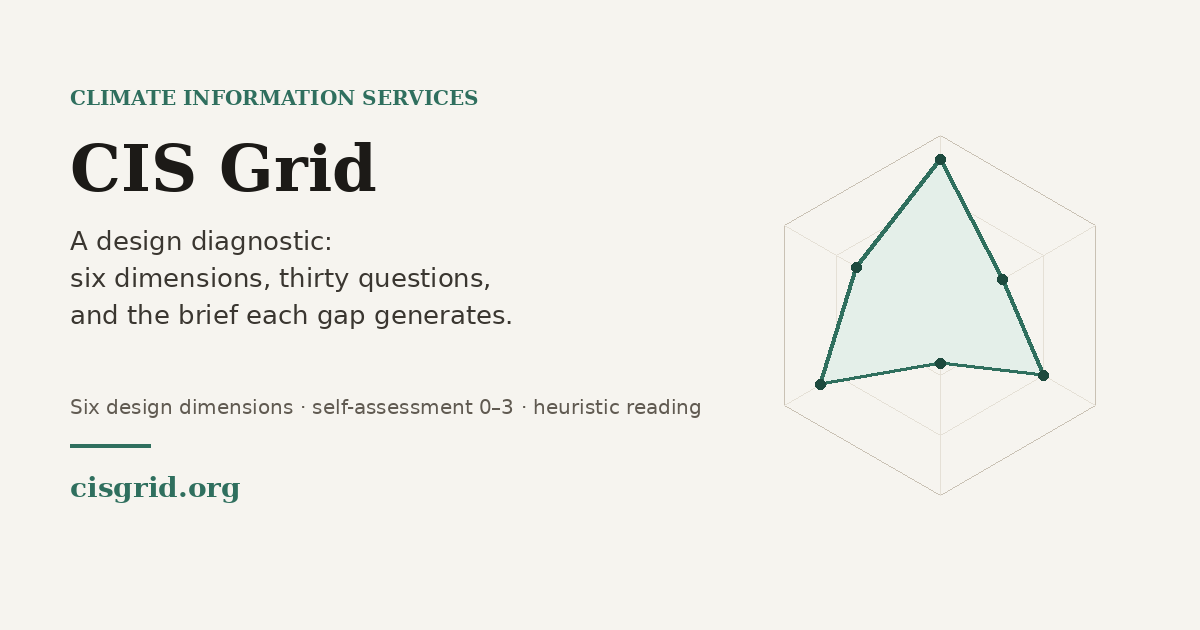
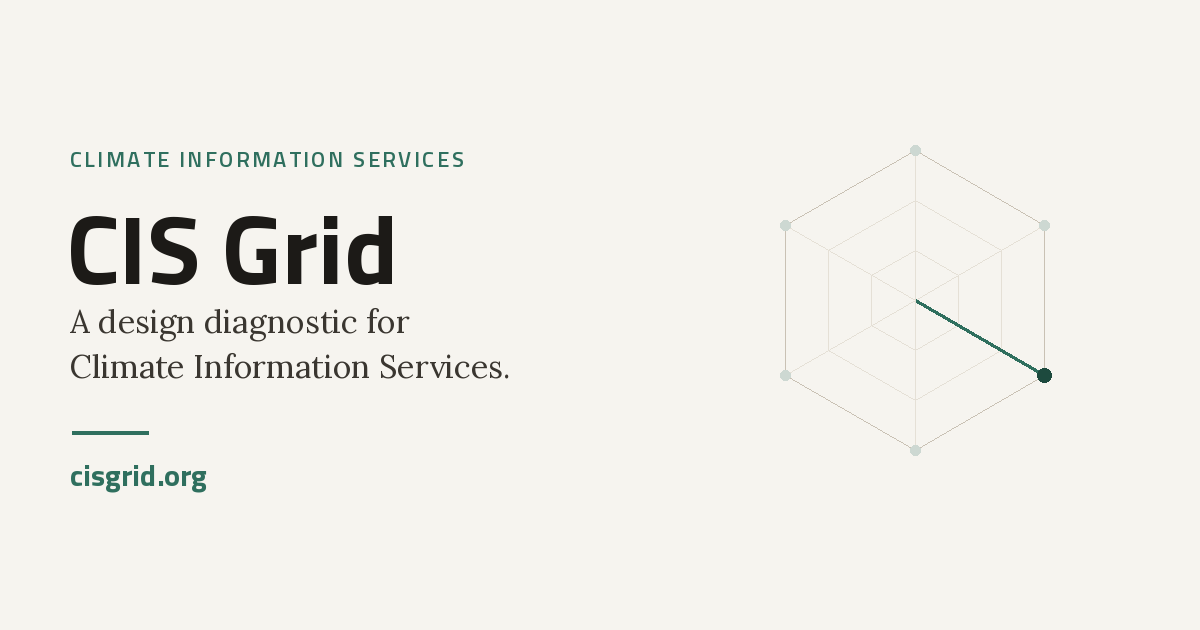
Updated version

diff --git a/index.html b/index.html
@@ -123,6 +123,80 @@ footer.site p{margin:.4rem 0}
 .badge:hover{background:var(--accent-soft);border-color:var(--accent)}
 .badge svg{width:14px;height:14px}
 
+/* ---------- Home: interactive hero + sections ---------- */
+.hero-grid{display:grid;grid-template-columns:1.05fr .95fr;gap:36px;align-items:center}
+@media(max-width:820px){.hero-grid{grid-template-columns:1fr;gap:6px}}
+.hero-copy h1{font-family:var(--serif);font-weight:700;font-size:2.4rem;line-height:1.12;margin:.2rem 0 1rem}
+@media(max-width:820px){.hero-copy h1{font-size:2.05rem}}
+.hero-viz{text-align:center}
+.hexviz{width:100%;max-width:410px;height:auto;overflow:visible;animation:hexpop .7s cubic-bezier(.2,.8,.2,1) both}
+@keyframes hexpop{from{opacity:0;transform:scale(.9) rotate(-7deg)}to{opacity:1;transform:none}}
+.hexviz .ring{fill:none;stroke:var(--line);stroke-width:1}
+.hexviz .ring.r3{stroke:#c9c1b4}
+.hexviz .spoke{stroke:var(--line);stroke-width:1;transition:stroke .2s,stroke-width .2s}
+.hexviz .dot{fill:#cdd8d2;transition:fill .2s,r .2s}
+.hexviz .lbl{font-family:var(--sans);font-weight:600;font-size:12.5px;fill:var(--ink);transition:fill .2s}
+.hexviz .hit{fill:transparent;cursor:pointer}
+.hexviz .axis{cursor:pointer}
+.hexviz .axis.on .spoke{stroke:var(--accent);stroke-width:2.6}
+.hexviz .axis.on .dot{fill:var(--accent-ink);r:5.5}
+.hexviz .axis.on .lbl{fill:var(--accent-ink);font-weight:700}
+.hexviz .axis:focus{outline:none}
+.hexviz .axis:focus .lbl{text-decoration:underline}
+.hexviz .draw{stroke-dasharray:1;stroke-dashoffset:1;animation:hexdraw .9s ease forwards}
+@keyframes hexdraw{to{stroke-dashoffset:0}}
+.hexviz .fadein{opacity:0;animation:hexfade .5s ease forwards}
+@keyframes hexfade{to{opacity:1}}
+.hexcap{color:var(--muted);font-size:.95rem;margin:.7rem auto 0;max-width:40ch;min-height:4.6em;line-height:1.4}
+.hexcap b{color:var(--accent-ink)}
+.statstrip{display:flex;flex-wrap:wrap;gap:14px 30px;margin-top:28px;padding-top:20px;border-top:1px solid var(--line)}
+.stat .v{font-family:var(--serif);font-weight:700;font-size:1.55rem;color:var(--accent-ink);line-height:1}
+.stat .k{display:block;color:var(--muted);font-size:.85rem;margin-top:.25rem}
+.distance blockquote{font-family:var(--body);font-style:italic;font-size:1.15rem;line-height:1.55;color:#3a3630;
+  margin:.6rem 0 1.7rem;max-width:56ch;padding-left:16px;border-left:3px solid #cfe3da}
+.distance-path{display:flex;align-items:center;gap:18px}
+@media(max-width:700px){.distance-path{flex-direction:column;align-items:flex-start}}
+.dp-end{flex:0 0 auto;text-align:center;width:118px}
+.dp-end .ic{width:48px;height:48px;border-radius:50%;background:var(--accent-soft);color:var(--accent-ink);display:flex;align-items:center;justify-content:center;margin:0 auto .45rem}
+.dp-end .ic svg{width:22px;height:22px}
+.dp-end .t{font-weight:600;font-size:.9rem;line-height:1.25}
+.dp-track{flex:1;display:grid;grid-auto-flow:column;grid-template-rows:auto auto;gap:10px 14px;justify-content:center;align-content:center}
+@media(max-width:700px){.dp-track{display:flex;flex-wrap:wrap;justify-content:flex-start;border-left:2px solid var(--line);margin-left:22px;padding:4px 0 4px 14px}}
+.dp-stop{font-size:.82rem;color:var(--accent-ink);background:var(--accent-soft);border:1px solid #cfe3da;border-radius:999px;padding:.3rem .7rem;text-align:center;
+  opacity:0;transform:translateY(8px);transition:opacity .5s ease,transform .5s ease}
+.dp-track.in .dp-stop{opacity:1;transform:none}
+.sample .toggle-row{display:inline-flex;border:1px solid var(--line);border-radius:999px;padding:3px;background:#fff;margin:0 0 18px}
+.sample .toggle-row button{border:none;background:transparent;border-radius:999px;padding:.42rem .95rem;font-family:var(--sans);font-weight:600;font-size:.92rem;color:var(--muted);cursor:pointer}
+.sample .toggle-row button.on{background:var(--accent);color:#fff}
+.sample-grid{display:grid;grid-template-columns:300px 1fr;gap:26px;align-items:center;background:var(--panel);border:1px solid var(--line);border-radius:var(--radius);padding:24px;box-shadow:var(--shadow)}
+@media(max-width:700px){.sample-grid{grid-template-columns:1fr}}
+#sampleRadar{width:100%;max-width:290px;height:auto;display:block;margin:0 auto}
+.sample-read .att{font-size:1rem;color:#3a3630;line-height:1.6}
+.sample-read .att b{color:var(--accent-ink)}
+.sample-note{color:var(--muted);font-size:.85rem;margin-top:26px;padding-top:16px;border-top:1px solid var(--line)}
+/* how it works: interactive stepper */
+.stepper{position:relative;margin-top:10px}
+.steptrack{position:absolute;top:19px;left:16.6%;right:16.6%;height:2px;background:var(--line);z-index:0}
+.stepfill{height:100%;width:0;background:var(--accent);transition:width .35s ease}
+.stepnodes{display:grid;grid-template-columns:repeat(3,1fr);gap:12px;position:relative;z-index:1}
+.stepnode{display:flex;flex-direction:column;align-items:center;gap:.55rem;background:none;border:none;cursor:pointer;font-family:inherit;padding:0}
+.stepnode .n{width:40px;height:40px;border-radius:50%;background:#fff;border:2px solid var(--line);color:var(--muted);
+  display:flex;align-items:center;justify-content:center;font-weight:700;font-family:var(--sans);transition:.2s}
+.stepnode .lab{font-family:var(--sans);font-weight:600;font-size:.95rem;color:var(--muted);text-align:center;transition:.2s}
+.stepnode.done .n{border-color:var(--accent);color:var(--accent-ink)}
+.stepnode.active .n{background:var(--accent);border-color:var(--accent);color:#fff}
+.stepnode.done .lab,.stepnode.active .lab{color:var(--ink)}
+.stepbody{background:var(--panel);border:1px solid var(--line);border-radius:12px;padding:18px 20px;margin-top:22px;box-shadow:var(--shadow)}
+.stepbody h4{margin:0 0 .35rem;font-size:1.05rem}
+.stepbody p{margin:0;color:#3a3630;line-height:1.6}
+.reveal{opacity:0;transform:translateY(16px);transition:opacity .6s ease,transform .6s ease}
+.reveal.in{opacity:1;transform:none}
+@media(prefers-reduced-motion:reduce){
+  .reveal,.dp-stop{opacity:1!important;transform:none!important;transition:none}
+  .hexviz,.hexviz .draw,.hexviz .fadein{animation:none}
+  .hexviz .draw{stroke-dashoffset:0}.hexviz .fadein{opacity:1}
+}
+
 /* ---------- Interview overlay ---------- */
 .overlay{position:fixed;inset:0;background:var(--bg);z-index:50;display:none;flex-direction:column}
 .overlay.open{display:flex}
@@ -253,21 +327,53 @@ footer.site p{margin:.4rem 0}
           <button class="btn ghost small" id="discardBtn">Start over</button>
         </span>
       </div>
-      <p class="eyebrow">Climate Information Services · design diagnostic</p>
-      <h1>Read your climate service as a designed service, dimension by dimension.</h1>
-      <p class="lead">A guided interview for teams scoping or reviewing a Climate Information Service. It walks you through six design dimensions, records a self-assessment from 0 to 3 on each question, and returns a heuristic reading: where the service is under-designed, and the design brief each gap generates.</p>
-      <div class="cta-row">
-        <button class="btn" id="startBtn">Start the interview</button>
-        <a class="btn ghost" href="#how">See how it works</a>
+      <div class="hero-grid">
+        <div class="hero-copy">
+          <p class="eyebrow">Climate Information Services · design diagnostic</p>
+          <h1>Read your climate service as a designed service.</h1>
+          <p class="lead">A guided interview across <b>six design dimensions</b>. Rate your service from 0 to 3 on each question and get a heuristic reading: where it is <b>under-designed</b>, and the <b>design brief</b> each gap generates.</p>
+          <div class="cta-row">
+            <button class="btn" id="startBtn">Start the interview</button>
+            <a class="btn ghost" href="#how">See how it works</a>
+          </div>
+          <p class="note" style="margin-top:1rem">No account needed, your answers stay in your browser.</p>
+        </div>
+        <div class="hero-viz">
+          <svg class="hexviz" id="hexviz" viewBox="0 0 440 400" role="img" aria-label="The six design dimensions on a hexagon. Focus a dimension to read what it asks."></svg>
+          <p class="hexcap" id="hexcap">Hover or tap a dimension to see what it asks.</p>
+        </div>
       </div>
-      <p class="note" style="margin-top:1rem">About 15–20 minutes · English · no account needed · your answers stay in your browser.</p>
+      <div class="statstrip reveal">
+        <div class="stat"><span class="v" data-count="6">6</span><span class="k">design dimensions</span></div>
+        <div class="stat"><span class="v" data-count="30">30</span><span class="k">diagnostic questions</span></div>
+        <div class="stat"><span class="v">~20′</span><span class="k">to complete</span></div>
+      </div>
+    </div>
+  </section>
+
+  <section class="distance" style="background:var(--panel);border-top:1px solid var(--line);border-bottom:1px solid var(--line)">
+    <div class="wrap">
+      <h2 class="section-title reveal">From forecast to decision</h2>
+      <blockquote class="reveal">“The distance between a forecast and a decision is not an information distance. It is a design distance.”</blockquote>
+      <div class="distance-path reveal">
+        <div class="dp-end">
+          <div class="ic"><svg viewBox="0 0 24 24" fill="none" stroke="currentColor" stroke-width="1.8" stroke-linecap="round" stroke-linejoin="round" aria-hidden="true"><path d="M17 18a4 4 0 0 0 0-8 5.5 5.5 0 0 0-10.7-1.3A3.5 3.5 0 0 0 6 18z"/><path d="M8 20l-1 2M12 20l-1 2M16 20l-1 2"/></svg></div>
+          <div class="t">A forecast is issued</div>
+        </div>
+        <div class="dp-track" id="dpTrack"></div>
+        <div class="dp-end">
+          <div class="ic"><svg viewBox="0 0 24 24" fill="none" stroke="currentColor" stroke-width="1.8" stroke-linecap="round" stroke-linejoin="round" aria-hidden="true"><path d="M20 6L9 17l-5-5"/></svg></div>
+          <div class="t">A decision is made</div>
+        </div>
+      </div>
+      <p class="section-sub reveal" style="margin-top:1.4rem">Between the two lies design work: the touchpoints it travels through, its timing, the back-stage choreography, the behavioural levers, the depth of co-production and whose knowledge counts. The grid asks, dimension by dimension, what has not been designed yet.</p>
     </div>
   </section>
 
   <section id="about">
     <div class="wrap">
       <h2 class="section-title">The research behind it</h2>
-      <p class="section-sub">The instrument comes from a study that read two operational Climate Information Services in Northern Ghana as designed services, then built a six-dimension diagnostic grid whose unanswered questions become design briefs. The distance between a forecast being available and a forecast being used is treated as a design distance, not an information one.</p>
+      <p class="section-sub">The instrument comes from a study that read two operational Climate Information Services in Northern Ghana as designed services, then built a six-dimension diagnostic grid whose unanswered questions become design briefs.</p>
       <div class="cards">
         <div class="card"><h3>A formative instrument</h3><p>The grid is used before deployment. A scoping team works through the questions, and every question it cannot answer marks a design decision still to be made.</p></div>
         <div class="card"><h3>An attention map, not a ranking</h3><p>The radar shows which dimensions are under-designed within one service, so scarce attention goes where it is most needed. It does not rank services against each other.</p></div>
@@ -280,12 +386,12 @@ footer.site p{margin:.4rem 0}
   <section id="how" style="background:var(--panel);border-top:1px solid var(--line);border-bottom:1px solid var(--line)">
     <div class="wrap">
       <h2 class="section-title">How it works</h2>
-      <p class="section-sub">Three stages, one sitting. You can speak your answers or type them, and you can leave and resume later.</p>
-      <div class="steps">
-        <div class="step"><div class="n">1</div><h3>Guided interview</h3><p class="note">Six dimensions. Each opens with a short explanation, then five questions with a field example. You rate each from 0 to 3.</p></div>
-        <div class="step"><div class="n">2</div><h3>Heuristic reading</h3><p class="note">Your scores are mapped onto a hexagonal radar and turned into a reading of strengths, weaknesses and the brief that closes each gap.</p></div>
-        <div class="step"><div class="n">3</div><h3>Downloadable report</h3><p class="note">Take the reading with you as a PDF. Your written notes never leave your device.</p></div>
+      <p class="section-sub">Three stages, one sitting. Select a stage to see what it involves.</p>
+      <div class="stepper">
+        <div class="steptrack"><div class="stepfill" id="stepFill"></div></div>
+        <div class="stepnodes" id="stepNodes"></div>
       </div>
+      <div class="stepbody" id="stepBody"></div>
     </div>
   </section>
 
@@ -294,6 +400,24 @@ footer.site p{margin:.4rem 0}
       <h2 class="section-title">The six dimensions</h2>
       <p class="section-sub">A synthesis of vocabularies from service design, behavioural science and co-production research, combined into a single reading protocol for Climate Information Services.</p>
       <div class="dims" id="dimList"></div>
+    </div>
+  </section>
+
+  <section id="sample" class="sample" style="background:var(--panel);border-top:1px solid var(--line)">
+    <div class="wrap">
+      <h2 class="section-title">See an example reading</h2>
+      <p class="section-sub">Two illustrative profiles, to show what a finished reading looks like before you run your own.</p>
+      <div class="toggle-row" id="sampleToggle" role="tablist" aria-label="Example service profiles">
+        <button type="button" data-p="weak" class="on" role="tab" aria-selected="true">An early-stage service</button>
+        <button type="button" data-p="strong" role="tab" aria-selected="false">A mature service</button>
+      </div>
+      <div class="sample-grid">
+        <canvas id="sampleRadar" width="640" height="640" role="img" aria-label="Example radar of the six dimensions"></canvas>
+        <div class="sample-read">
+          <p class="att" id="sampleAtt"></p>
+          <p class="sample-note">Ready to read your own service? <a href="#" id="sampleStart">Start the interview</a>.</p>
+        </div>
+      </div>
     </div>
   </section>
 
@@ -612,6 +736,79 @@ window.addEventListener('pagehide', ()=>{
   const saved = loadLocal();
   if(saved) document.getElementById('resumeBar').classList.remove('hidden');
 })();
+
+/* ---------- Home: interactive hero hexagon, method path, reveals, sample ---------- */
+function initHome(){
+  const svg=document.getElementById('hexviz'), cap=document.getElementById('hexcap');
+  if(svg){
+    const cx=220, cy=190, R=118, N=6, start=-Math.PI/2;
+    const ang=k=>start+k*2*Math.PI/N, pt=(k,r)=>[cx+r*Math.cos(ang(k)), cy+r*Math.sin(ang(k))];
+    const poly=r=>Array.from({length:N},(_,k)=>pt(k,r).map(n=>n.toFixed(1)).join(',')).join(' ');
+    let s='';
+    [1,2,3].forEach((ring,idx)=>{ s+=`<polygon class="ring${ring===3?' r3':''} draw" pathLength="1" points="${poly(R*ring/3)}" style="animation-delay:${(0.15+idx*0.12).toFixed(2)}s"/>`; });
+    DIMENSIONS.forEach((d,k)=>{
+      const [vx,vy]=pt(k,R), [lx,ly]=pt(k,R+30), c=Math.cos(ang(k));
+      const anchor=Math.abs(c)<0.3?'middle':(c>0?'start':'end'), words=d.axis.split(' ');
+      const label = words.length>1
+        ? `<text class="lbl" x="${lx.toFixed(1)}" y="${(ly-6).toFixed(1)}" text-anchor="${anchor}">${words[0]}</text><text class="lbl" x="${lx.toFixed(1)}" y="${(ly+8).toFixed(1)}" text-anchor="${anchor}">${words.slice(1).join(' ')}</text>`
+        : `<text class="lbl" x="${lx.toFixed(1)}" y="${(ly+3).toFixed(1)}" text-anchor="${anchor}">${d.axis}</text>`;
+      s+=`<g class="axis" data-i="${k}" tabindex="0" role="button" aria-label="${d.title}. ${d.keyQ}">
+        <line class="spoke draw" pathLength="1" x1="${cx}" y1="${cy}" x2="${vx.toFixed(1)}" y2="${vy.toFixed(1)}" style="animation-delay:${(0.5+k*0.06).toFixed(2)}s"/>
+        <circle class="dot fadein" cx="${vx.toFixed(1)}" cy="${vy.toFixed(1)}" r="4" style="animation-delay:${(0.7+k*0.06).toFixed(2)}s"/>
+        <circle class="hit" cx="${lx.toFixed(1)}" cy="${ly.toFixed(1)}" r="34"/>
+        <g class="fadein" style="animation-delay:${(0.8+k*0.06).toFixed(2)}s">${label}</g>
+      </g>`;
+    });
+    svg.innerHTML=s;
+    const axes=svg.querySelectorAll('.axis');
+    const setActive=i=>{ axes.forEach(a=>a.classList.toggle('on', Number(a.dataset.i)===i));
+      cap.innerHTML = i>=0 ? '<b>'+DIMENSIONS[i].title+'.</b> '+DIMENSIONS[i].keyQ : 'Hover or tap a dimension to see what it asks.'; };
+    axes.forEach(a=>{ const i=Number(a.dataset.i);
+      a.addEventListener('mouseenter',()=>setActive(i));
+      a.addEventListener('focus',()=>setActive(i));
+      a.addEventListener('click',()=>setActive(i)); });
+    svg.addEventListener('mouseleave',()=>setActive(-1));
+  }
+
+  const track=document.getElementById('dpTrack');
+  if(track) track.innerHTML=DIMENSIONS.map((d,i)=>`<span class="dp-stop" style="transition-delay:${(i*0.08).toFixed(2)}s">${d.title}</span>`).join('');
+
+  const STEPS=[
+    {t:'Guided interview', d:'Six dimensions. Each opens with a short explanation, then five questions with a field example. You rate each from 0 to 3, by voice or by typing.'},
+    {t:'Heuristic reading', d:'Your scores are mapped onto a hexagonal radar and turned into a reading of strengths, weaknesses and the design brief that closes each gap.'},
+    {t:'Downloadable report', d:'Take the reading with you as a PDF. Your written notes never leave your device.'}
+  ];
+  const nodesEl=document.getElementById('stepNodes'), fillEl=document.getElementById('stepFill'), bodyEl=document.getElementById('stepBody');
+  if(nodesEl){
+    nodesEl.innerHTML=STEPS.map((s,i)=>`<button class="stepnode" data-i="${i}" type="button"><span class="n">${i+1}</span><span class="lab">${s.t}</span></button>`).join('');
+    const nodes=nodesEl.querySelectorAll('.stepnode');
+    const selectStep=i=>{ nodes.forEach((n,j)=>{ n.classList.toggle('active',j===i); n.classList.toggle('done',j<=i); });
+      if(fillEl) fillEl.style.width=(i/(STEPS.length-1)*100)+'%';
+      if(bodyEl) bodyEl.innerHTML='<h4>'+STEPS[i].t+'</h4><p>'+STEPS[i].d+'</p>'; };
+    nodes.forEach(n=>n.addEventListener('click',()=>selectStep(Number(n.dataset.i))));
+    selectStep(0);
+  }
+
+  function countUp(){ document.querySelectorAll('.stat .v[data-count]').forEach(el=>{ const to=+el.dataset.count, step=Math.max(1,Math.round(to/18)); let cur=0;
+    const t=setInterval(()=>{ cur+=step; if(cur>=to){cur=to;clearInterval(t);} el.textContent=cur; },28); }); }
+
+  document.querySelectorAll('.section-title,.section-sub,.card,.step,.dim').forEach(el=>el.classList.add('reveal'));
+  const revs=[...document.querySelectorAll('.reveal'), ...document.querySelectorAll('.dp-track')];
+  if('IntersectionObserver' in window){
+    const io=new IntersectionObserver((ents)=>{ ents.forEach(e=>{ if(!e.isIntersecting) return;
+      e.target.classList.add('in'); if(e.target.classList.contains('statstrip')) countUp(); io.unobserve(e.target); }); },{threshold:0.15});
+    revs.forEach(el=>io.observe(el));
+  } else { revs.forEach(el=>el.classList.add('in')); countUp(); }
+
+  const SAMPLES={ weak:[0.6,1.2,0.4,1.0,0.8,1.2], strong:[2.6,2.4,2.8,3.0,2.2,2.6] };
+  const scv=document.getElementById('sampleRadar'), att=document.getElementById('sampleAtt');
+  function showSample(p){ const a=SAMPLES[p]; if(scv) drawRadar(scv,a,-1); if(att) att.innerHTML='<b>Attention map.</b> This is not a grade. '+attentionText(a); }
+  if(scv){ showSample('weak');
+    document.querySelectorAll('#sampleToggle button').forEach(b=>b.addEventListener('click',()=>{
+      document.querySelectorAll('#sampleToggle button').forEach(x=>{x.classList.remove('on');x.setAttribute('aria-selected','false');});
+      b.classList.add('on'); b.setAttribute('aria-selected','true'); showSample(b.dataset.p); })); }
+  const ss=document.getElementById('sampleStart'); if(ss) ss.addEventListener('click',e=>{ e.preventDefault(); startInterview(null); });
+}
 
 const overlay   = document.getElementById('overlay');
 const ivInner   = document.getElementById('ivInner');
@@ -1214,6 +1411,9 @@ document.addEventListener('keydown',(e)=>{
   if(e.key==='Enter' && !nextBtn.disabled && !ivActions.classList.contains('hidden')
      && document.activeElement.tagName!=='TEXTAREA'){ goNext(); }
 });
+
+/* Build the interactive homepage (runs after all definitions above are initialised) */
+initHome();
 </script>
 </body>
 </html>

diff --git a/README.md b/README.md
@@ -10,7 +10,9 @@ Everything runs client-side in `index.html`. No build step, no framework, no ser
 
 | File | What it is |
 | --- | --- |
-| `index.html` | The whole site: landing, framework, privacy policy, contact, interview, report. |
+| `index.html` | The site: landing, framework, interview, report. |
+| `privacy.html` | The privacy policy, served at `cisgrid.org/privacy`. |
+| `contact.html` | The contact form, served at `cisgrid.org/contact`. |
 | `apps-script.gs` | Google Apps Script that receives the anonymous scores and appends them to your Sheet. |
 | `og-image.png` | Social preview image, referenced by the Open Graph tags. |
 | `LICENSE` | MIT for the code, CC BY-SA 4.0 for the diagnostic content. |
@@ -57,12 +59,20 @@ Create a free account at goatcounter.com, choose a site code, and put it in the 
 
 ## 3. Set up the contact form (Web3Forms)
 
-Create a free access key at web3forms.com with the destination email address, and paste it into `CONFIG.WEB3FORMS_KEY`. Messages arrive in that inbox; nothing is stored on the site.
+The form lives on its own page (`contact.html`, served at `/contact`) and collects name (optional), email, a topic chosen from a short list, and a message. The chosen topic becomes the email subject, so you can triage at a glance. A hidden honeypot field filters basic bots.
+
+Create a free access key at web3forms.com and paste it into `CONFIG.WEB3FORMS_KEY` at the top of `contact.html`. Messages arrive in your inbox; nothing is stored on the site.
+
+The only required dashboard action is to set the **recipient** email to `[email redacted]`, since the account defaults to the address you signed up with.
+
+Spam protection on the free plan comes from Web3Forms' automatic server-side check plus the honeypot field already in the form; that is enough for this low-traffic use. Free hCaptcha can be added later if spam appears.
+
+Two features are **Pro (paid) only** and are intentionally not used: the autoresponder (an automatic acknowledgement email to the sender) and Restrict to Domain (locking the key to `cisgrid.org`). The on-page confirmation replaces the autoresponder; both can be switched on later from the Web3Forms dashboard if you ever upgrade.
 
 ## 4. Publish on GitHub Pages
 
 1. Create a **public** repository, for example `cisgrid`.
-2. Upload `index.html`, `og-image.png`, `LICENSE`, `apps-script.gs`, `README.md` to the root.
+2. Upload `index.html`, `privacy.html`, `contact.html`, `og-image.png`, `apps-script.gs`, `LICENSE`, `README.md` to the root.
 3. Settings → Pages → Source: *Deploy from a branch*, branch `main`, folder `/ (root)`.
 4. Settings → Pages → Custom domain: enter `cisgrid.org` and save. This writes a `CNAME` file into the repository.
 5. Tick **Enforce HTTPS** once the certificate has been issued (it can take up to an hour).
@@ -91,7 +101,7 @@ Run one full pass on the live domain, not on the local file. Voice recognition n
 - The consent screen appears first, and declining still lets the interview run.
 - Each dimension shows its explanation, then five questions with an example and the 0–3 scale.
 - Leaving mid-interview and returning offers **Resume**, with the answers intact.
-- The radar renders six labelled axes and the two lowest dimensions are named as priorities.
+- The radar renders six labelled axes; the attention map names where to look first.
 - The PDF downloads; the contact form returns a success message and the email arrives.
 - With consent given, a row appears in the Sheet on completion; abandoning mid-way writes an `abandoned` row with the dimension reached.
 - On Chrome, read-aloud and dictation work; on Firefox, dictation is hidden with a note to type.
@@ -99,9 +109,7 @@ Run one full pass on the live domain, not on the local file. Voice recognition n
 ## Launch checklist beyond the site
 
 - Replace the placeholder in §9 of the manuscript (`available at: zzzzzzzz`) with `cisgrid.org`.
-- Add the Data Protection Officer contact for the University of Palermo to the privacy policy, where the page currently shows a marked placeholder.
-- Add the full citation and DOI in the footer and in `LICENSE` once the article is published.
-- Set `REPO_URL` so the footer credit links to the public repository.
+- Add the full citation and DOI in `LICENSE` once the article is published.
 - Run a pilot with two or three teams before circulating the link widely, to check the questions read correctly outside the authors' context.
 
 ## Known limits